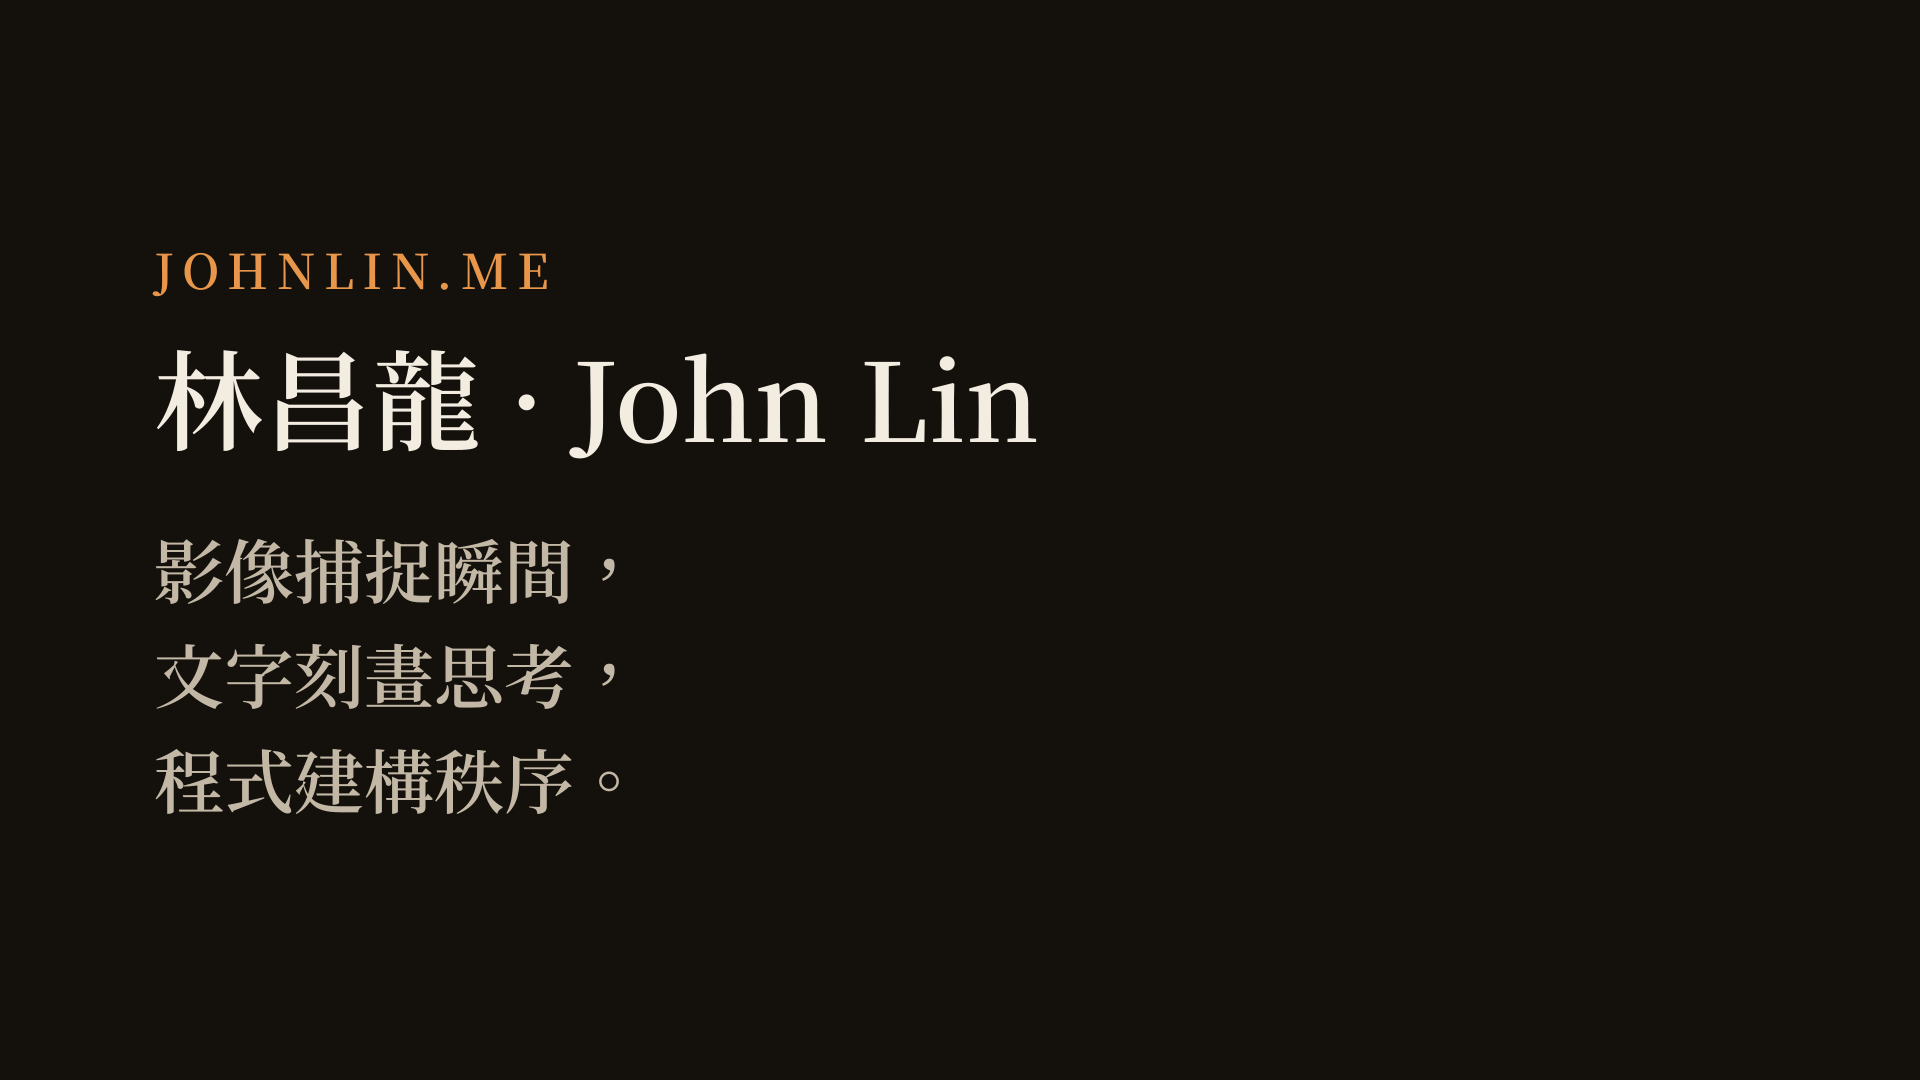
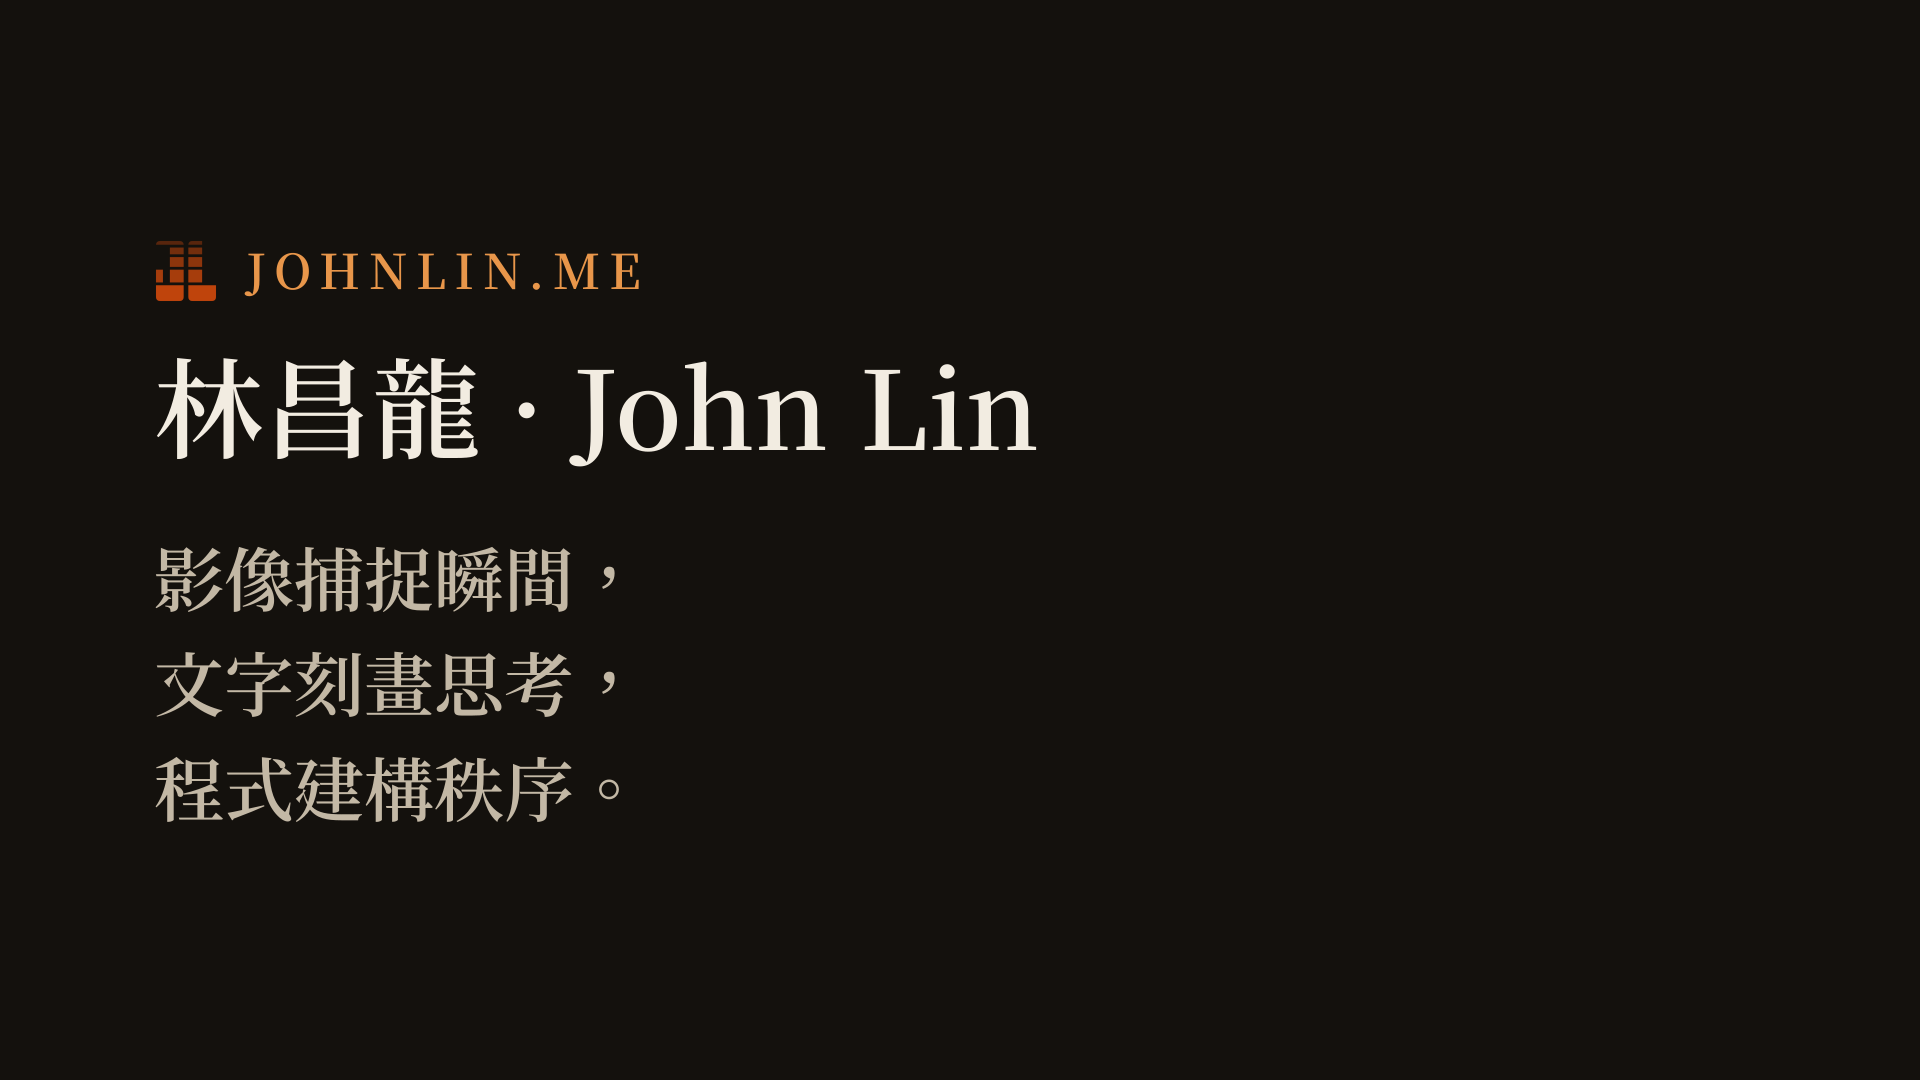
Feature: bilingual OG image and a Bug Fix for ThreeThings mobile clipping
Two small polish items surfaced after launch: the share-preview image had
no brand mark and never matched the visitor's language, and the homepage's
"three things" cards lost their rotated corners on narrow screens.

Feature:
- scripts/generate-og.mjs now renders both a zh-TW and an English default
  OG image (public/assets/og/default.png / default-en.png), each with the
  brand logo mark inlined next to "JOHNLIN.ME". English copy matches the
  existing HomePage.tagline translation so it doesn't drift from the site.
- app/lib/metadata.ts picks the matching default image by locale, so any
  page without its own cover (home, blog/notes/gallery/about lists, etc.)
  shares the right one. Pages that already pass an explicit `image` are
  unaffected.

Bug Fix:
- ThreeThings.module.scss: dropped `overflow-x: clip` on .thingsScatter.
  It clipped the scattered cards' own rotated corners on mobile, since the
  card fills that box's full width and rotation spills past its border
  box. The body already has `overflow-x: hidden` globally, so page-level
  horizontal scroll is still prevented without the local clip.

Not covered, for the record:
- Only the default/fallback OG image is bilingual. Per-post covers (blog,
  gallery, notes) already pass their own `image` and are untouched.

diff --git a/app/lib/metadata.ts b/app/lib/metadata.ts
@@ -68,8 +68,8 @@ export async function metadata(options: MetadataOptions): Promise<Metadata> {
     title: rawTitle,
     description,
     keywords = [],
-    // 預設圖由 scripts/generate-og.mjs 產生，尺寸跟下面兩個預設值綁在一起。
-    image = '/assets/og/default.png',
+    // 預設圖由 scripts/generate-og.mjs 產生（中英各一張），尺寸跟下面兩個預設值綁在一起。
+    image = isEn ? '/assets/og/default-en.png' : '/assets/og/default.png',
     imageWidth = 1920,
     imageHeight = 1080,
     url,

diff --git a/app/components/home/ThreeThings/ThreeThings.module.scss b/app/components/home/ThreeThings/ThreeThings.module.scss
@@ -19,7 +19,7 @@
   gap: var(--space-6);
   margin-top: var(--space-12);
   padding-bottom: var(--space-6); // 給最深那張的視差位移一點呼吸空間
-  overflow-x: clip; // 卡片傾斜偏移，避免橫向捲動
+  // 不設 overflow-x：卡片旋轉的視覺溢出需要露出來，body 已有 overflow-x: hidden 擋橫向捲動
 
   @include respond-to('phone') {
     gap: var(--space-5);
